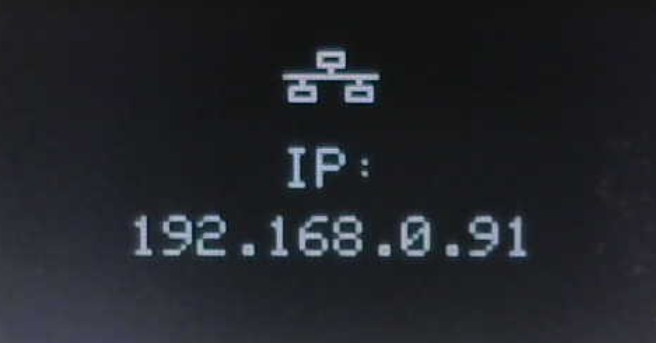
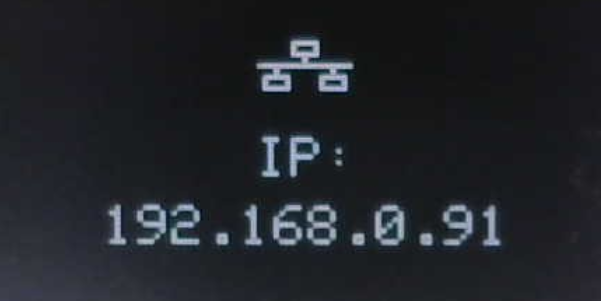
Crop images

Changed region(s): [[0.1797, 0.4186, 0.8386, 0.8372], [0.4193, 0.1196, 0.599, 0.3289]]

diff --git a/docs/configure_with_ethernet.md b/docs/configure_with_ethernet.md
@@ -4,7 +4,7 @@ Torch: ![Feature Supported](img/Icons/RedDot.png) / EVK: ![Feature Supported](im
 
 During Ethernet configuration, the RTK device will present a webpage that is viewable from a desktop/laptop connected to the local network.
 
-![SparkFun RTK Ethernet Configuration Interface](<img/WiFi Config/SparkFun RTK Ethernet Config - Main Interface.png>)
+![SparkFun RTK Ethernet Configuration Interface](<img/WiFi Config/SparkFun RTK Ethernet Config - Crop.png>)
 
 *SparkFun RTK Ethernet Configuration Interface*
 
